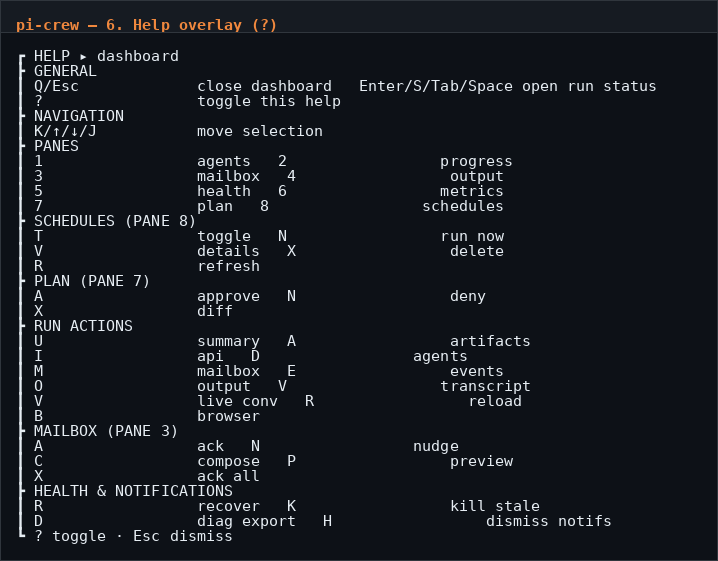
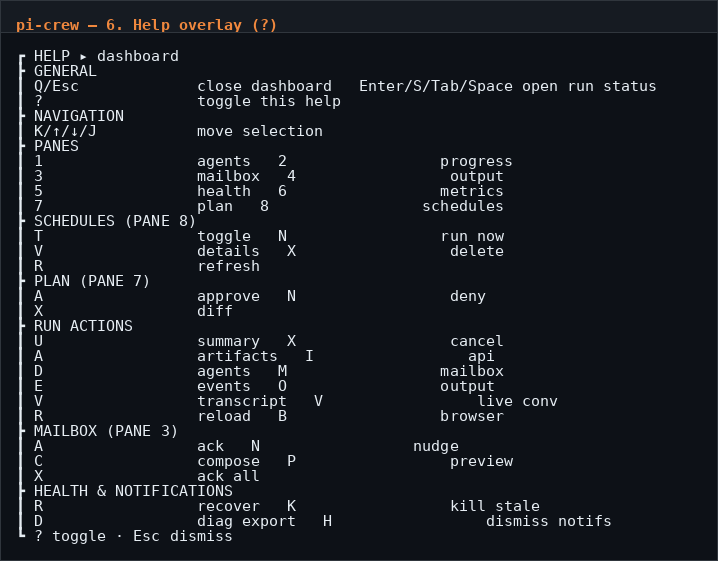
docs(battery): pi-1.0.0 wave T5/T10/T13 xanh cả 2 tuiMode — G-C đóng; catalog regen trên pi-tui 1.0.0 (catch-up X-cancel, no regression)

diff --git a/docs/real-test/reports/real-test-2026-10-02-pi100-battery.md b/docs/real-test/reports/real-test-2026-10-02-pi100-battery.md
@@ -1,0 +1,32 @@
+# Real-test battery — pi 1.0.0 host wave (T5/T6/T10/T13) · 2026-10-02
+
+**Scope**: hoàn nốt T5/T6/T10/T13 cho wave pi 1.0.0 (sau `192c8d6b` bump devDeps
+`^0.99.1`→`^1.0.0`, bundle không đổi `a0edaed9`). Host `pi` binary = **1.0.0**
+theo doctor probe. Đóng gap **G-C** (render fullscreen alt-screen chưa kiểm chứng)
+từ `docs/pi-1.0.0-compat-research-2026-10-02.md` §8.
+
+## Kết quả
+
+| Tier | Status | Evidence |
+|---|---|---|
+| 5 tmux fullscreen (default 1.0.0) | ✅ | scratch `/tmp/rt-t5`, tmux 160x50 `-S /tmp/sock-t5`; `/team-help` render **đầy đủ danh sách lệnh** (/teams, /team-run, /team-status, /team-summary, /team-resume, /team-cancel, /team-retry, /team-respond…); app-cursor-mode `\x1bOA` được nhận — screen coherent sau phím (chỉ scroll bình thường, không garbage) |
+| 5 tmux regular (`--tui-mode regular`) | ✅ | `/team-doctor` render báo cáo đầy đủ; **doctor tự xác nhận `pi command: 1.0.0`**; runtime/fs/config 0 errors; model zai/glm-5.3 OK |
+| 6 pty bulk-keys | ⏭ | T5 xanh cả 2 tuiMode (T5\|T6 either theo skill); không có nhu cầu bulk-key cho diff này |
+| 10a surface E2E | ✅ | `test/system/surface-tmux.e2e.test.ts` **4/4** · `surface-herdr.e2e.test.ts` **5/5** — cả hai backend thật trên môi trường pi 1.0.0 |
+| 13 real-run UI render | ✅ | Harness `/tmp/full-ui.ts` (template skill) render **11 surface** từ run THẬT `team_20261002114852_4b2d2e704b2bebd5` (smoke pi-1.0.0 ở `/tmp/rt-pi100`): CALL/STREAMING(via producer)/COLLAPSED/EXPANDED/EXPANDED@80/DOCK×4/PLAN CARD/SIDEBAR. Sweeps **0 hit**: undefined · `->` · wire-format (input=/cacheRead=) · pluralisation · spinner+0-running · over-width · hint-clipped. Glyph đúng state: `✓` done · `⠦` running (1 running) · `✗` failed. Narrow `done@50`: `↓·enter` **sống** ở 50 cột |
+| 13 catalog regen trên pi-tui 1.0.0 | ✅ | `capture.ts` + `render_png.py` chạy với node_modules pi-tui **1.0.0**: 18 captures + 18 PNG, glyph self-check ✓ hết. Diff chỉ là **catch-up nội dung** (keybinding `X cancel` mới hiển thị trong 06-help-overlay + 13-run-dashboard header) — KHÔNG phải regression pi-tui; cấu trúc rail/glyph/dots nguyên vẹn |
+
+## Ghi chú
+
+- T2/T3 không chạy lại: bundle bytes **không đổi** (`a0edaed9`) sau deps bump —
+  SDK/pi-tui là bundle-external (nghiên cứu M6), kết quả T2/T3 của bundle này
+  vẫn hiệu lực từ battery SDD-4.
+- T13 PNG visual-inspect bằng glyph self-check của renderer (model leader không
+  xem ảnh); self-check fail-to trên missing glyph nên ✓18/18 là gate đủ.
+- Warning môi trường (không liên quan pi-crew): stderr `pi-qwen-mm … system tool
+  missing — visualize` từ plugin MCP của user, thấy ở capture T5.
+
+## Phán quyết
+
+**pi-crew trên host pi 1.0.0: T5/T10/T13 xanh cả hai tuiMode. Gap G-C đóng.**
+Wave 1.0.0 hoàn tất: research → bump → gates → smoke → battery.
